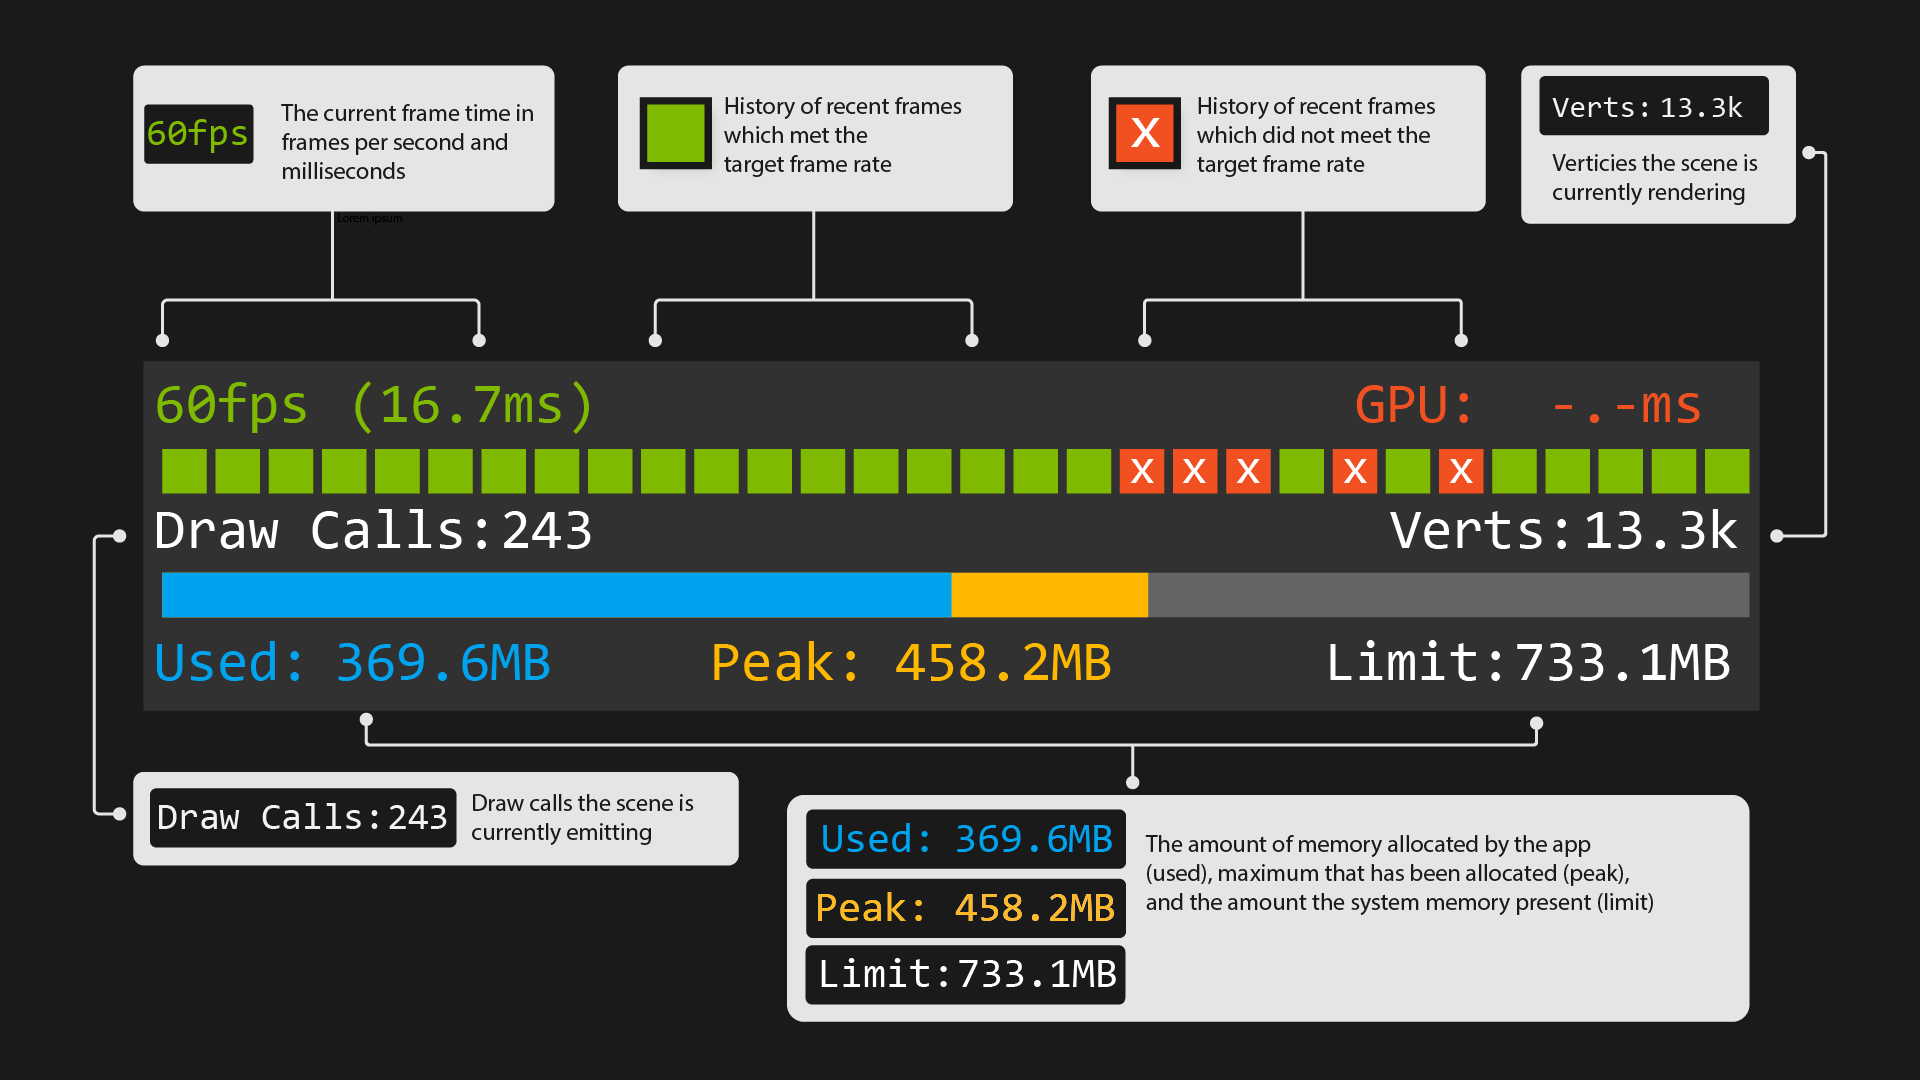
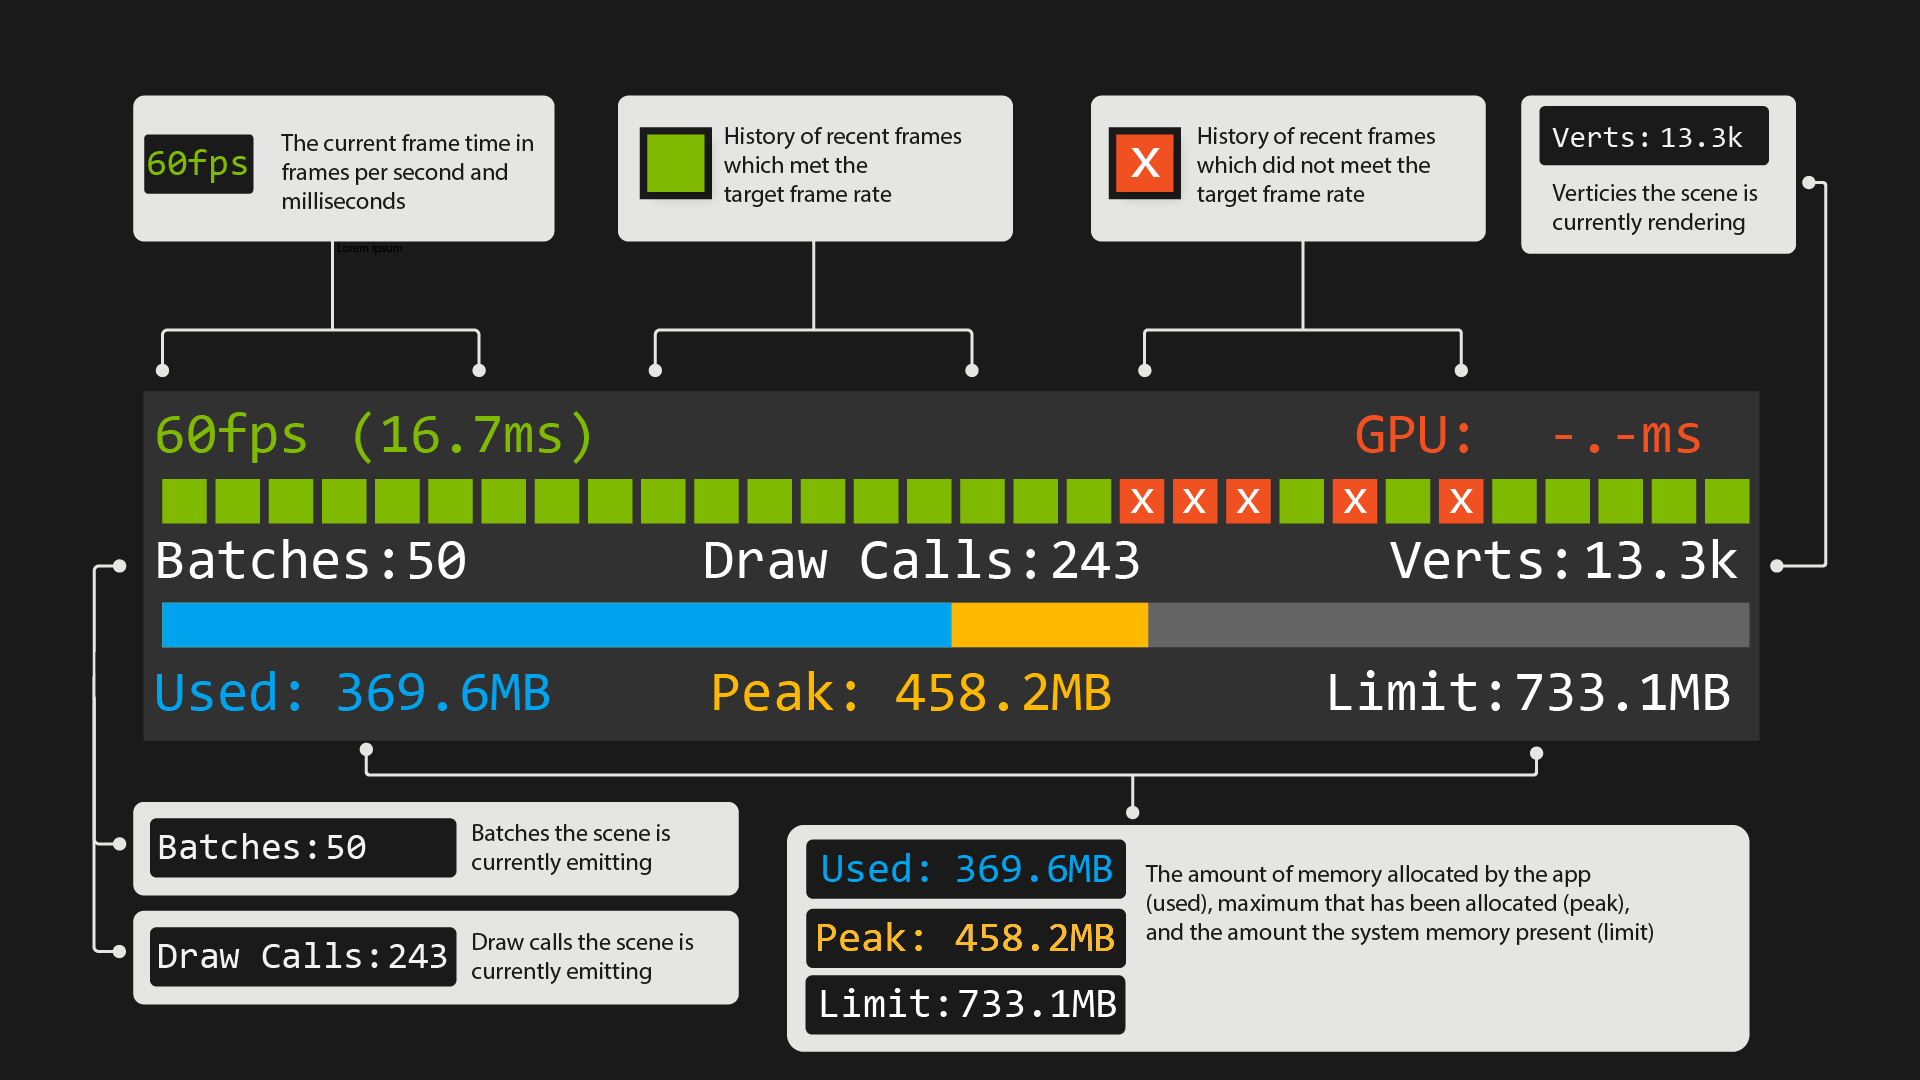
Display Batching Info (#15)

diff --git a/VisualProfiler.cs b/VisualProfiler.cs
@@ -177,7 +177,8 @@ namespace Microsoft.MixedReality.Profiling
         private const int cpuframeRateTextOffset = usedInstanceOffset + 1;
         private const int gpuframeRateTextOffset = cpuframeRateTextOffset + maxStringLength;
 
-        private const int drawCallTextOffset = gpuframeRateTextOffset + maxStringLength;
+        private const int batchesTextOffset = gpuframeRateTextOffset + maxStringLength;
+        private const int drawCallTextOffset = batchesTextOffset + maxStringLength;
         private const int verticesTextOffset = drawCallTextOffset + maxStringLength;
 
         private const int usedMemoryTextOffset = verticesTextOffset + maxStringLength;
@@ -205,6 +206,7 @@ namespace Microsoft.MixedReality.Profiling
         private TextData cpuFrameRateText = null;
         private TextData gpuFrameRateText = null;
 
+        private TextData batchesText = null;
         private TextData drawCallText = null;
         private TextData verticesText = null;
 
@@ -221,6 +223,7 @@ namespace Microsoft.MixedReality.Profiling
 
         private int cpuFrameRate = -1;
         private int gpuFrameRate = -1;
+        private long batches = 0;
         private long drawCalls = 0;
         private long vertexCount = 0;
         private ulong memoryUsage = 0;
@@ -234,6 +237,7 @@ namespace Microsoft.MixedReality.Profiling
         private float accumulatedFrameTimeGPU = 0.0f;
         private float frameSampleRateMS = 0.0f;
         private FrameTiming[] frameTimings = new FrameTiming[1];
+        private ProfilerRecorder batchesRecorder;
         private ProfilerRecorder drawCallsRecorder;
         private ProfilerRecorder verticesRecorder;
 
@@ -256,6 +260,7 @@ namespace Microsoft.MixedReality.Profiling
         {
             cpuFrameRate = -1;
             gpuFrameRate = -1;
+            batches = 0;
             drawCalls = 0;
             vertexCount = 0;
             memoryUsage = 0;
@@ -290,6 +295,7 @@ namespace Microsoft.MixedReality.Profiling
             windowVerticalRotation = Quaternion.AngleAxis(defaultWindowRotation.x, Vector3.up);
             windowVerticalRotationInverse = Quaternion.Inverse(windowVerticalRotation);
 
+            batchesRecorder = ProfilerRecorder.StartNew(ProfilerCategory.Render, "Batches Count");
             drawCallsRecorder = ProfilerRecorder.StartNew(ProfilerCategory.Render, "Draw Calls Count");
             verticesRecorder = ProfilerRecorder.StartNew(ProfilerCategory.Render, "Vertices Count");
 
@@ -312,6 +318,7 @@ namespace Microsoft.MixedReality.Profiling
 #endif
             verticesRecorder.Dispose();
             drawCallsRecorder.Dispose();
+            batchesRecorder.Dispose();
         }
 
         private void OnValidate()
@@ -414,11 +421,20 @@ namespace Microsoft.MixedReality.Profiling
                 }
 
                 // Update scene statistics.
+                long lastBatches = batchesRecorder.LastValue;
+
+                if (lastBatches != batches)
+                {
+                    SceneStatsToString(stringBuffer, batchesText, lastBatches);
+
+                    batches = lastBatches;
+                }
+
                 long lastDrawCalls = drawCallsRecorder.LastValue;
 
                 if (lastDrawCalls != drawCalls)
                 {
-                    DrawCallsToString(stringBuffer, drawCallText, lastDrawCalls);
+                    SceneStatsToString(stringBuffer, drawCallText, lastDrawCalls);
 
                     drawCalls = lastDrawCalls;
                 }
@@ -575,7 +591,9 @@ namespace Microsoft.MixedReality.Profiling
             // Add scene statistics text.
             {
                 float height = 0.0045f;
-                drawCallText = new TextData(new Vector3(-edgeX, height, 0.0f), false, drawCallTextOffset, "Draw Calls: ");
+                batchesText = new TextData(new Vector3(-edgeX, height, 0.0f), false, batchesTextOffset, "Batches: ");
+                LayoutText(batchesText);
+                drawCallText = new TextData(new Vector3(-0.03f, height, 0.0f), false, drawCallTextOffset, "Draw Calls: ");
                 LayoutText(drawCallText);
                 verticesText = new TextData(new Vector3(edgeX, height, 0.0f), true, verticesTextOffset, "Verts: ");
                 LayoutText(verticesText);
@@ -831,7 +849,7 @@ namespace Microsoft.MixedReality.Profiling
             SetText(data, buffer, bufferIndex, color);
         }
 
-        private void DrawCallsToString(char[] buffer, TextData data, long drawCalls)
+        private void SceneStatsToString(char[] buffer, TextData data, long drawCalls)
         {
             int bufferIndex = 0;
 
